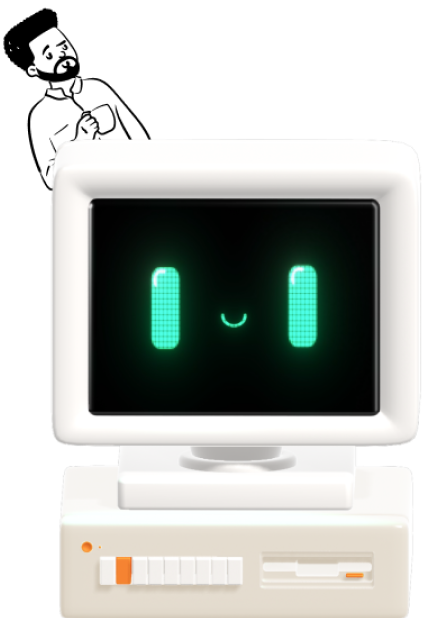
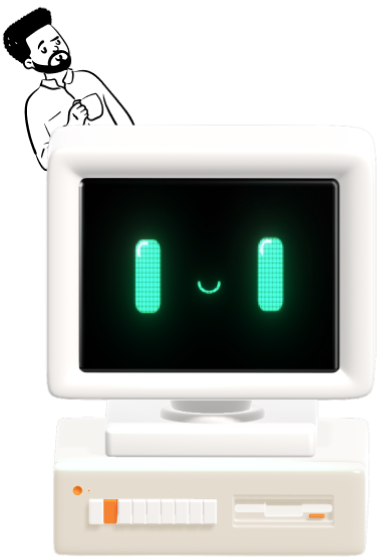
added navbar

diff --git a/app/page.js b/app/page.js
@@ -10,14 +10,16 @@ export default function Home() {
 
     <>
 
+      <Navbar />
+
       <>
         <div className="py-10">
-          <div className="flex flex-col items-center justify-between gap-8 relative">
-            <div className="w-full h-[40rem] flex flex-col items-center justify-between">
-              <h1 className="w-3/4 uppercase font-Bebas_Neue text-6xl text-center mb-2">Empowering Your <span className="font-Luxurious_Script font-normal normal-case">Digital</span> <span className="text-[#F68333]">Vision</span></h1>
-              <Image className="absolute top-16 w-full h-auto px-0 pointer-events-none" src="/home/hero-image.png" alt="Hero Image" width={1000} height={1000} />
+          <div className="flex flex-col items-center justify-between gap-8">
+            <h1 className="w-3/4 uppercase font-Bebas_Neue text-6xl text-center mb-2">Empowering Your <span className="font-Luxurious_Script font-normal normal-case">Digital</span> <span className="text-[#F68333]">Vision</span></h1>
+            <div className="w-full h-[27rem] relative">
+              <Image className="absolute -top-32 w-[380px] h-auto px-0 pointer-events-none" src="/home/hero-image.png" alt="Hero Image" width={1000} height={1000} />
             </div>
-            <div className="flex flex-col items-center justify-between gap-8 px-8 mt-16">
+            <div className="flex flex-col items-center justify-between gap-8 px-8">
               <p className="font-Inter font-normal text-base text-center">We’re a passionate team of creatives and strategists committed to designing impactful digital experiences. At Digitcrib, we help your business stand out with bespoke web solutions that deliver results.</p>
               <CTAbutton />
             </div>            
